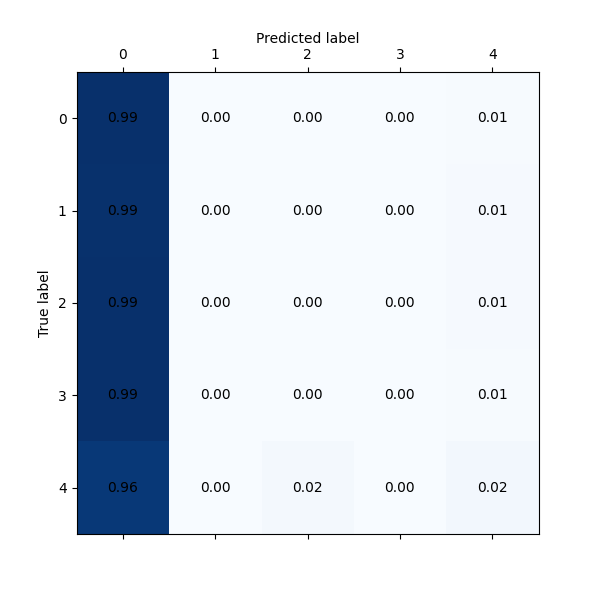
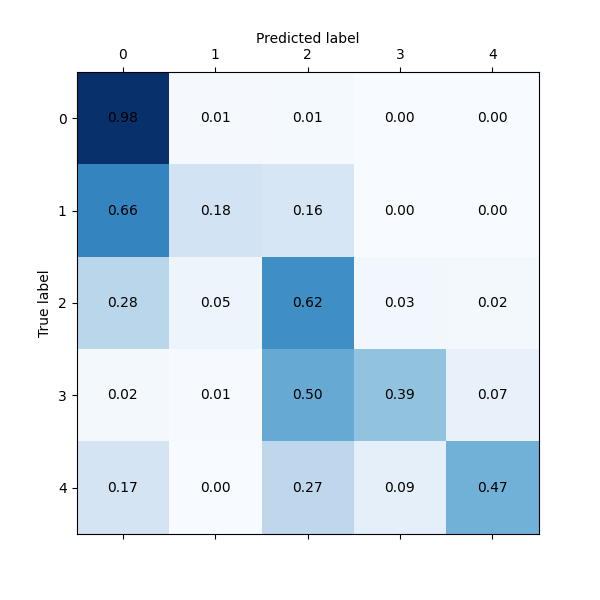
Lab04 result png

diff --git a/Lab04/eval.py b/Lab04/eval.py
@@ -165,29 +165,31 @@ dataset_train=RetinopathyLoader('./data/new_train','train')
 loader_train=DataLoader(dataset=dataset_train,batch_size=batch,shuffle=True,num_workers=4)
 dataset_test=RetinopathyLoader('./data/new_test','test')
 loader_test=DataLoader(dataset=dataset_test,batch_size=batch,shuffle=False,num_workers=4)
-model_type='resnet50'
-pretrained=True
+print('resnet18 unpretrained')
+model_type='resnet18'
+#pretrained=True
 #model=getmodels(model_type,pretrained)
-model=models.resnet50()
-model.fc =nn.Linear(in_features=2048,out_features=5)
-model.load_state_dict(torch.load(os.path.join('models','resnet50with pretrained.pt')))
+model=models.resnet18()
+model.fc =nn.Linear(in_features=512,out_features=5)
+model.load_state_dict(torch.load(os.path.join('models','resnet18without pretrained.pt')))
 #df=training(model,model_type,loader_train,loader_test,num_classes)
 ##testing(model_type,loader_test,num_classes)
 confusion_matrix,_=evaluate(model,loader_test,num_classes)
-figure=plot_confusion_matrix(confusion_matrix)
-p='without'
-if pretrained:
-    p='with'
-figure.savefig(model_type+' (with '+p+' pretrained weights HF).png')
 
-"""
-plot accuracy figure
-"""
+#figure=plot_confusion_matrix(confusion_matrix)
+#p='without'
+#if pretrained:
+#    p='with'
+#figure.savefig(model_type+' (with '+p+' pretrained weights HF).png')
 
-figure=plot(df,'Result Comparison('+p+' pretrained)',p)
-figure.savefig('Result Comparison('+p+' pretrained HF.png')
-p='false'
-if pretrained:
-    p='true'
-path=model_type+' pretrained HF= '+ p +'.csv'
-df.to_csv(path)
+#"""
+#plot accuracy figure
+#"""
+
+#figure=plot(df,'Result Comparison('+p+' pretrained)',p)
+#figure.savefig('Result Comparison('+p+' pretrained HF.png')
+#p='false'
+#if pretrained:
+#    p='true'
+#path=model_type+' pretrained HF= '+ p +'.csv'
+#df.to_csv(path)
